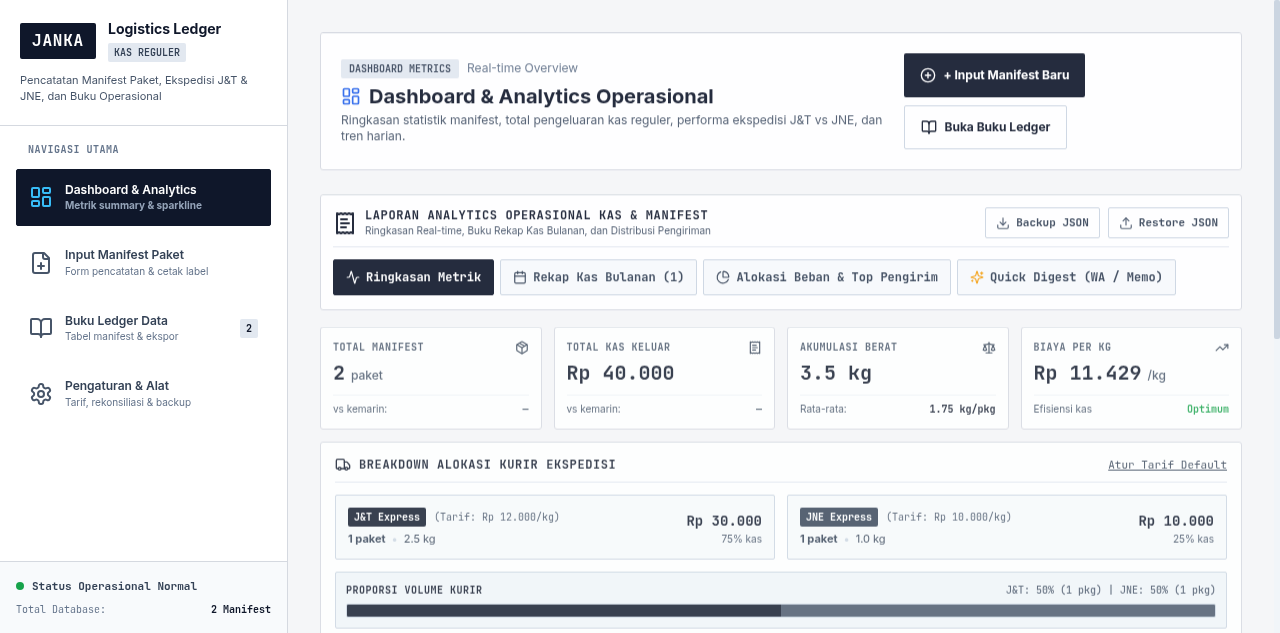
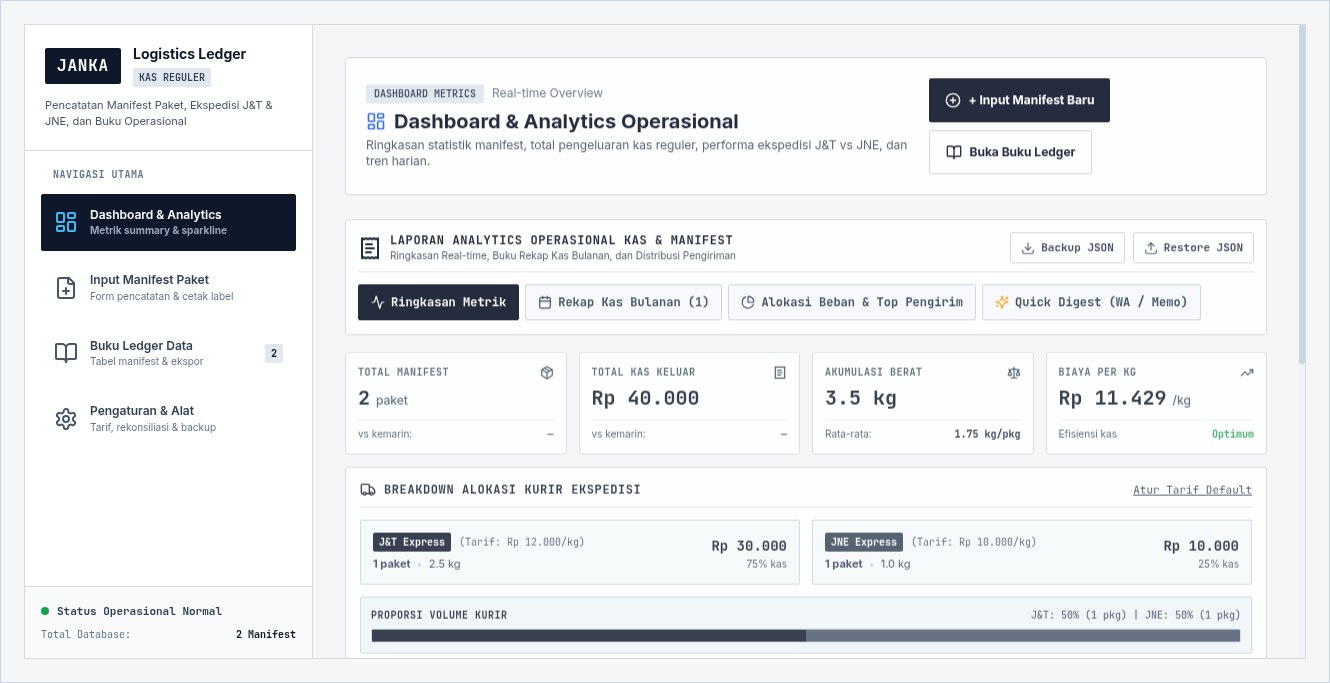
fix: add frame container border and padding to README screenshots

diff --git a/README.md b/README.md
@@ -10,7 +10,7 @@
 [![TypeScript](https://img.shields.io/badge/TypeScript-5.9-3178C6?style=flat-square&logo=typescript&logoColor=white)](https://www.typescriptlang.org/)
 [![License](https://img.shields.io/badge/License-MIT-16A34A?style=flat-square)](LICENSE)
 
-*A Enterprise-Grade, Lightweight Logistics Ledger & Thermal Label Printing Workstation*
+*An Enterprise-Grade, Lightweight Logistics Ledger & Thermal Label Printing Workstation*
 
 [Fitur Utama](#-fitur-unggulan) • [Alur Kerja](#-alur-kerja-operasional-harian) • [Tangkapan Layar](#-tangkapan-layar-sistem) • [Spesifikasi Excel](#-spesifikasi-ekspor-excel) • [Panduan Dev](#-panduan-pengembangan-lokal)
 
@@ -26,20 +26,28 @@
 
 ## 🖼 Tangkapan Layar Sistem
 
-### 📊 1. Dashboard & Analytics Operasional
-> *Pusat pengawasan metrik kas, sparkline tren volume 14 hari, alokasi pengiriman per kurir, serta rekapitulasi bulanan.*
+<div align="center">
 
-![Dashboard Analytics](./docs/screenshot-dashboard.png)
+### 📊 1. Dashboard & Analytics Operasional
+*Pusat pengawasan metrik kas, sparkline tren volume 14 hari, alokasi pengiriman per kurir, serta rekapitulasi bulanan.*
+
+<img src="./docs/screenshot-dashboard.png" alt="Dashboard Analytics" width="92%" style="border-radius:6px;" />
+
+<br/><br/>
 
 ### 📝 2. Stasiun Input Manifest & Cetak Label
-> *Formulir pencatatan ekspres dengan fitur kalkulasi otomatis tarif, notifikasi WhatsApp pengirim, dan modal pratinjau cetak label thermal 100x150mm.*
+*Formulir pencatatan ekspres dengan fitur kalkulasi otomatis tarif, notifikasi WhatsApp pengirim, dan modal pratinjau cetak label thermal 100x150mm.*
 
-![Input Manifest Station](./docs/screenshot-input.png)
+<img src="./docs/screenshot-input.png" alt="Input Manifest Station" width="92%" style="border-radius:6px;" />
+
+<br/><br/>
 
 ### 📖 3. Buku Ledger & Pencarian Manifest
-> *Tabel arsip manifest berukuran penuh dengan filter rentang tanggal, filter kurir, pencarian resi/pengirim, dan ekspor data Excel.*
+*Tabel arsip manifest berukuran penuh dengan filter rentang tanggal, filter kurir, pencarian resi/pengirim, dan ekspor data Excel.*
 
-![Buku Ledger Table](./docs/screenshot-ledger.png)
+<img src="./docs/screenshot-ledger.png" alt="Buku Ledger Table" width="92%" style="border-radius:6px;" />
+
+</div>
 
 ---
 
